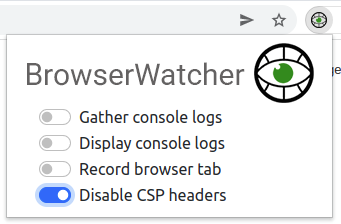
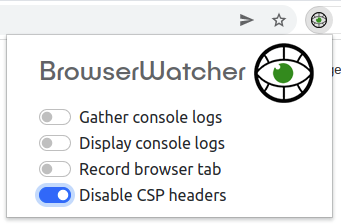
Revert styles in goc

Changed region(s): [[0.0587, 0.25, 0.7331, 0.4062]]

diff --git a/docs/index.html b/docs/index.html
@@ -311,7 +311,7 @@ p a > code:hover { color: #444444; }
 #header:after, #content:after, #footnotes:after, #footer:after { clear: both; }
 
 #header { margin-bottom: 2.5em; }
-#header > h1 { color: #616366; font-weight: normal; border-bottom: 1px solid #dddddd; margin-bottom: -28px; padding-bottom: 32px; padding-top: 10px; background: url('./img/browserwatcher.png') no-repeat left 8.25em top 0em;}
+#header > h1 { color: #616366; font-family:'Publica Play Regular'; font-weight: normal; border-bottom: 1px solid #dddddd; margin-bottom: -28px; padding-bottom: 32px; padding-top: 10px; background: url('./img/browserwatcher.png') no-repeat left 8.25em top 0em;}
 #header span { color: #616366; }
 #header #revnumber { text-transform: capitalize; }
 #header br { display: none; }
@@ -662,6 +662,13 @@ table.tableblock.grid-all { -webkit-border-radius: 0; border-radius: 0; -webkit-
 #footer { background-image: url('./img/footer-bg.jpg'); padding: 25px 0; }
 
 #footer-text { color: #fff; text-shadow: 1px 1px 1px #333; font-size: 80%; text-align: center; }
+
+@font-face {
+    font-family: 'Publica Play Regular';
+    font-style: normal;
+    font-weight: normal;
+    src: url('./css/PublicaPlay-Regular.woff') format('woff');
+}
 </style>
 <link rel="stylesheet" href="https://cdnjs.cloudflare.com/ajax/libs/font-awesome/4.7.0/css/font-awesome.min.css">
 <style>

diff --git a/docs/css/styles.css b/docs/css/styles.css
@@ -301,7 +301,7 @@ p a > code:hover { color: #444444; }
 #header:after, #content:after, #footnotes:after, #footer:after { clear: both; }
 
 #header { margin-bottom: 2.5em; }
-#header > h1 { color: #616366; font-weight: normal; border-bottom: 1px solid #dddddd; margin-bottom: -28px; padding-bottom: 32px; padding-top: 10px; background: url('./img/browserwatcher.png') no-repeat left 8.25em top 0em;}
+#header > h1 { color: #616366; font-family:'Publica Play Regular'; font-weight: normal; border-bottom: 1px solid #dddddd; margin-bottom: -28px; padding-bottom: 32px; padding-top: 10px; background: url('./img/browserwatcher.png') no-repeat left 8.25em top 0em;}
 #header span { color: #616366; }
 #header #revnumber { text-transform: capitalize; }
 #header br { display: none; }
@@ -652,3 +652,10 @@ table.tableblock.grid-all { -webkit-border-radius: 0; border-radius: 0; -webkit-
 #footer { background-image: url('./img/footer-bg.jpg'); padding: 25px 0; }
 
 #footer-text { color: #fff; text-shadow: 1px 1px 1px #333; font-size: 80%; text-align: center; }
+
+@font-face {
+    font-family: 'Publica Play Regular';
+    font-style: normal;
+    font-weight: normal;
+    src: url('./css/PublicaPlay-Regular.woff') format('woff');
+}

diff --git a/src/doc/asciidoc/css/styles.css b/src/doc/asciidoc/css/styles.css
@@ -301,7 +301,7 @@ p a > code:hover { color: #444444; }
 #header:after, #content:after, #footnotes:after, #footer:after { clear: both; }
 
 #header { margin-bottom: 2.5em; }
-#header > h1 { color: #616366; font-weight: normal; border-bottom: 1px solid #dddddd; margin-bottom: -28px; padding-bottom: 32px; padding-top: 10px; background: url('./img/browserwatcher.png') no-repeat left 8.25em top 0em;}
+#header > h1 { color: #616366; font-family:'Publica Play Regular'; font-weight: normal; border-bottom: 1px solid #dddddd; margin-bottom: -28px; padding-bottom: 32px; padding-top: 10px; background: url('./img/browserwatcher.png') no-repeat left 8.25em top 0em;}
 #header span { color: #616366; }
 #header #revnumber { text-transform: capitalize; }
 #header br { display: none; }
@@ -652,3 +652,10 @@ table.tableblock.grid-all { -webkit-border-radius: 0; border-radius: 0; -webkit-
 #footer { background-image: url('./img/footer-bg.jpg'); padding: 25px 0; }
 
 #footer-text { color: #fff; text-shadow: 1px 1px 1px #333; font-size: 80%; text-align: center; }
+
+@font-face {
+    font-family: 'Publica Play Regular';
+    font-style: normal;
+    font-weight: normal;
+    src: url('./css/PublicaPlay-Regular.woff') format('woff');
+}
